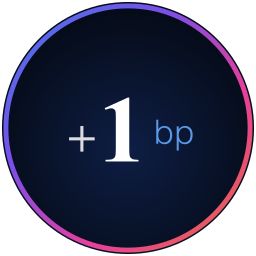
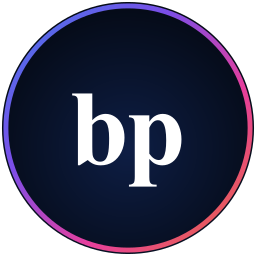
mark: switch to canonical "bp" wordmark per updated handoff
New README in design_handoff_bp_badge revises the brand mark: no "+1"
prefix, no three-text composition — just lowercase "bp" centered in
white Source Serif, inside the same aurora-rim circle.

- BasisPointMark.tsx is now a verbatim React port of the README's
  canonical 130x130 SVG template: one fill circle, one stroke circle,
  one text element. letterSpacing -1.08 (= -0.02em at 54px font size)
  per the spec.
- scripts/render-favicon.mjs matches the same SVG and regenerates the
  favicon.
- src/app/icon.png regenerated.

The component API (size, className, decorative) is unchanged from the
previous commit, so Nav.tsx needs no update.

Changed region(s): [[0.25, 0.3438, 0.75, 0.75]]

diff --git a/src/components/BasisPointMark.tsx b/src/components/BasisPointMark.tsx
@@ -6,13 +6,10 @@ type Props = {
   decorative?: boolean;
 };
 
-// "+1bp" inside an aurora-rim circle. Recreated pixel-for-pixel from the
-// design handoff in scratchpad: viewBox stays at 130×130 (preserves the
-// exact text positions from the reference), the visible size is set by
-// the `size` prop. The radial fill darkens center → edge; the linear rim
-// gradient sweeps blue → violet → pink → warm. Three separate <text>
-// elements give precise placement of "+", "1", and "bp" without relying
-// on text metrics.
+// "bp" wordmark inside an aurora-rim circle. Verbatim port of the handoff
+// reference SVG (design_handoff_bp_badge/README.md). The viewBox is kept
+// at 130×130 so font-size and stroke-width scale proportionally — the
+// rendered size is controlled by the `size` prop alone.
 export function BasisPointMark({
   size = 34,
   className,
@@ -64,33 +61,15 @@ export function BasisPointMark({
         opacity="0.9"
       />
       <text
-        x="33"
-        y="77"
-        fontFamily="var(--font-sans), Inter, system-ui, sans-serif"
-        fontSize="26"
-        fontWeight="300"
-        fill="rgba(255,255,255,0.85)"
-      >
-        +
-      </text>
-      <text
-        x="50"
-        y="82"
+        x="65"
+        y="65"
+        textAnchor="middle"
+        dominantBaseline="central"
         fontFamily="var(--font-serif), 'Source Serif 4', Georgia, serif"
-        fontSize="48"
+        fontSize="54"
         fontWeight="600"
+        letterSpacing="-1.08"
         fill="white"
-        dominantBaseline="auto"
-      >
-        1
-      </text>
-      <text
-        x="78"
-        y="73"
-        fontFamily="var(--font-sans), Inter, system-ui, sans-serif"
-        fontSize="17"
-        fontWeight="300"
-        fill="#5B9AE8"
       >
         bp
       </text>
